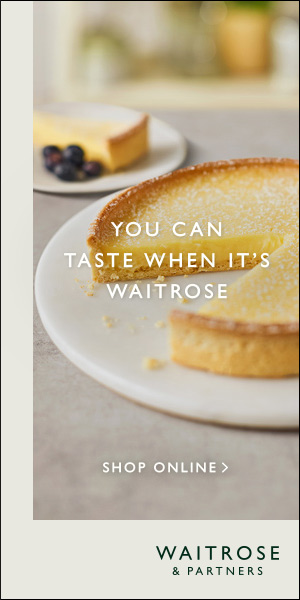
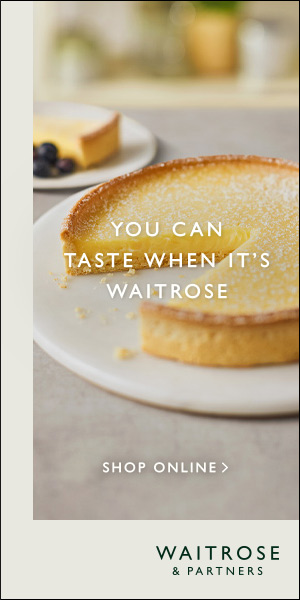
waitrose prview update

diff --git a/clients/Waitrose/Taste_Spring/LemonTart/html5/Waitrose_TasteSpring_LemonTart_300x600/index.html b/clients/Waitrose/Taste_Spring/LemonTart/html5/Waitrose_TasteSpring_LemonTart_300x600/index.html
@@ -19,7 +19,7 @@
         #background {background-color: #e8e8e0; position:absolute; left:0px; top:0px; width:300px; height:600px;}
 
         #imageCont {position:absolute; left:33px; top:0px; width:267px; height:520px; overflow:hidden;}
-        #image1 {position:absolute; left:-10px; top:0px; width:267px; height:auto; transform:scale(1.4); transform-origin:50% 50%;}
+        #image1 {position:absolute; left:20px; top:0px; width:267px; height:auto; transform:scale(1.4); transform-origin:50% 50%;}
 
         #copy1 {position:absolute; left:0px; top:0px; width:300px; height:600px; opacity:0;}
         #copy2 {position:absolute; left:0px; top:0px; width:300px; height:600px; opacity:0;}
@@ -120,7 +120,7 @@
             //
             tl1 = new TimelineMax({repeat:0, repeatDelay: 5.5});
             //
-            tl1.to('#image1', 10,{x:'+=10', y:0, scale:1});
+            tl1.to('#image1', 10,{x:'-=20', y:0, scale:1});
             tl1.to('#logo', 0.5,{opacity:1},'-=9');
             tl1.to('#copy1', 1,{opacity:1},'-=7');
             tl1.to('#copy1', 1,{opacity:0},'-=3');
